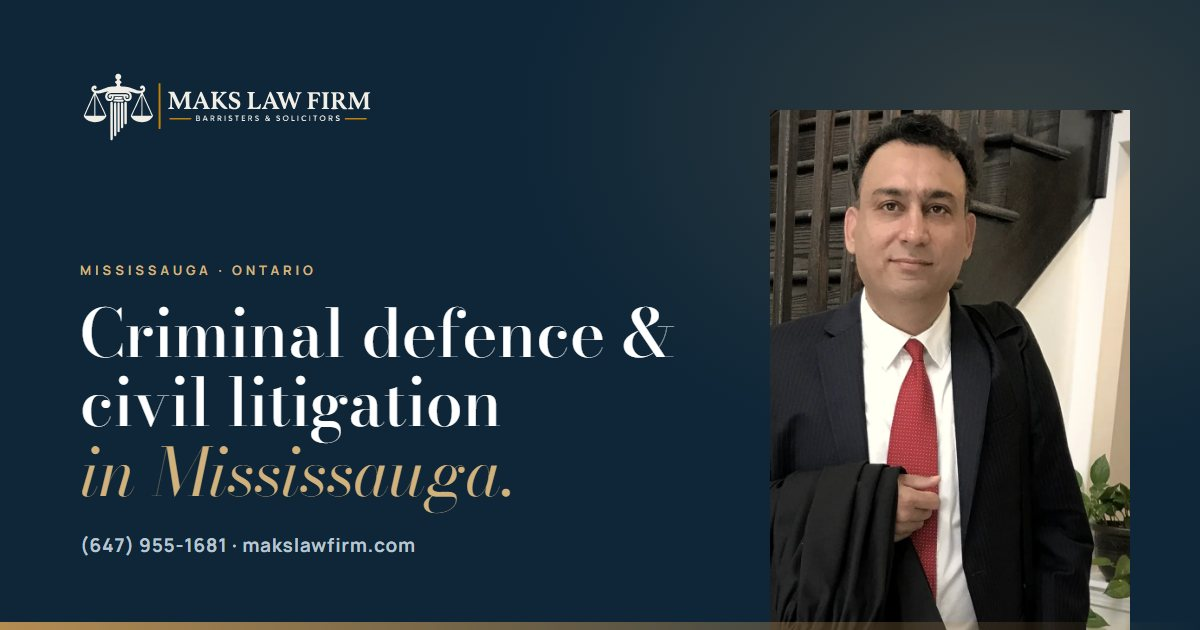
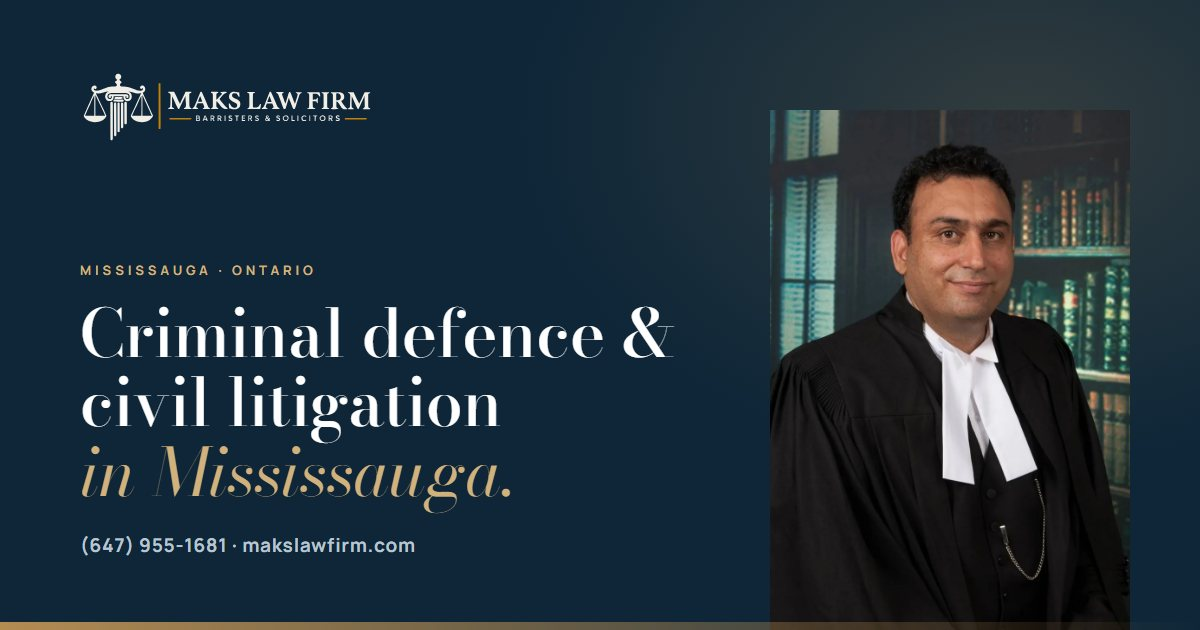
Update Maks Law Firm design preview

Changed region(s): [[0.6167, 0.1508, 0.9558, 1.0], [0.8325, 0.8746, 0.8633, 0.9048]]

diff --git a/index.html b/index.html
@@ -82,7 +82,7 @@
 <div class="btn-row hero-in" style="--d:4"><a class="btn btn--brass" href="contact/">Book a consultation<svg viewBox="0 0 24 24" fill="none" stroke="currentColor" stroke-width="1.6" stroke-linecap="round" stroke-linejoin="round" aria-hidden="true" focusable="false"><path d="M5 12h14"/><path d="m12 5 7 7-7 7"/></svg></a><a class="btn btn--line-light" href="tel:+16479551681"><svg viewBox="0 0 24 24" fill="none" stroke="currentColor" stroke-width="1.6" stroke-linecap="round" stroke-linejoin="round" aria-hidden="true" focusable="false"><path d="M22 16.92v3a2 2 0 0 1-2.18 2 19.79 19.79 0 0 1-8.63-3.07 19.5 19.5 0 0 1-6-6 19.79 19.79 0 0 1-3.07-8.67A2 2 0 0 1 4.11 2h3a2 2 0 0 1 2 1.72c.13.96.36 1.9.7 2.81a2 2 0 0 1-.45 2.11L8.09 9.91a16 16 0 0 0 6 6l1.27-1.27a2 2 0 0 1 2.11-.45c.91.34 1.85.57 2.81.7A2 2 0 0 1 22 16.92z"/></svg>(647) 955-1681</a></div>
 <ul class="chips hero-in" style="--d:5"><li><svg viewBox="0 0 24 24" fill="none" stroke="currentColor" stroke-width="1.6" stroke-linecap="round" stroke-linejoin="round" aria-hidden="true" focusable="false"><path d="M12 22s8-4 8-10V5l-8-3-8 3v7c0 6 8 10 8 10z"/></svg>Licensed by the Law Society of Ontario</li><li><svg viewBox="0 0 24 24" fill="none" stroke="currentColor" stroke-width="1.6" stroke-linecap="round" stroke-linejoin="round" aria-hidden="true" focusable="false"><circle cx="12" cy="12" r="10"/><path d="M12 6v6l4 2"/></svg>24/7 by phone &amp; WhatsApp</li><li><a class="gbadge" href="https://maps.google.com/?cid=4991522677458181374" rel="noopener"><svg viewBox="0 0 24 24" fill="none" stroke="currentColor" stroke-width="1.6" stroke-linecap="round" stroke-linejoin="round" aria-hidden="true" focusable="false"><path d="m12 2 3.09 6.26L22 9.27l-5 4.87 1.18 6.88L12 17.77l-6.18 3.25L7 14.14 2 9.27l6.91-1.01L12 2z"/></svg><span>Read our reviews on Google</span><svg viewBox="0 0 24 24" fill="none" stroke="currentColor" stroke-width="1.6" stroke-linecap="round" stroke-linejoin="round" aria-hidden="true" focusable="false"><path d="M15 3h6v6M10 14 21 3M18 13v6a2 2 0 0 1-2 2H5a2 2 0 0 1-2-2V8a2 2 0 0 1 2-2h6"/></svg></a></li></ul>
 </div>
-<figure class="portrait"><div class="portrait__frame"><img src="assets/images/hero-murad-1280.webp" srcset="assets/images/hero-murad-640.webp 640w, assets/images/hero-murad-960.webp 960w, assets/images/hero-murad-1280.webp 1280w" sizes="(max-width: 960px) 88vw, 480px" width="1280" height="1600" alt="Murad Ali Khan, founder of Maks Law Firm, in a dark suit holding his barrister’s gown" fetchpriority="high" decoding="async"></div>
+<figure class="portrait"><div class="portrait__frame"><img src="assets/images/hero-murad-1280.webp" srcset="assets/images/hero-murad-640.webp 640w, assets/images/hero-murad-960.webp 960w, assets/images/hero-murad-1280.webp 1280w" sizes="(max-width: 960px) 88vw, 480px" width="1280" height="1600" alt="Murad Ali Khan, Barrister &amp; Solicitor and founder of Maks Law Firm, in barrister’s robes" fetchpriority="high" decoding="async"></div>
 <figcaption><strong>Murad Ali Khan</strong><span>Founder · Barrister &amp; Solicitor</span></figcaption></figure>
 </div>
 </section>
